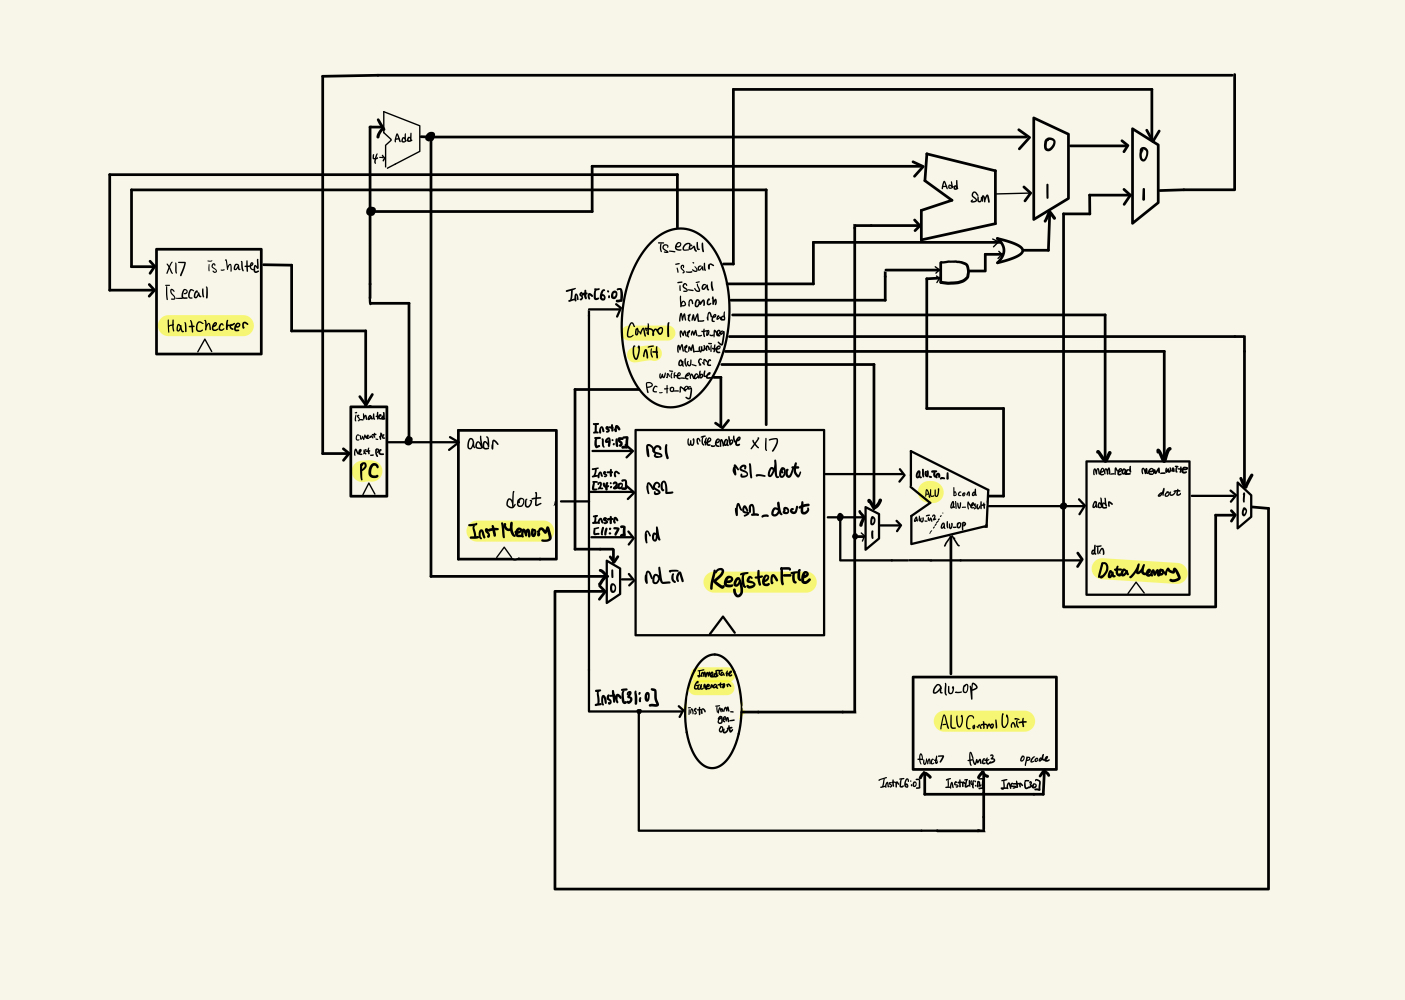
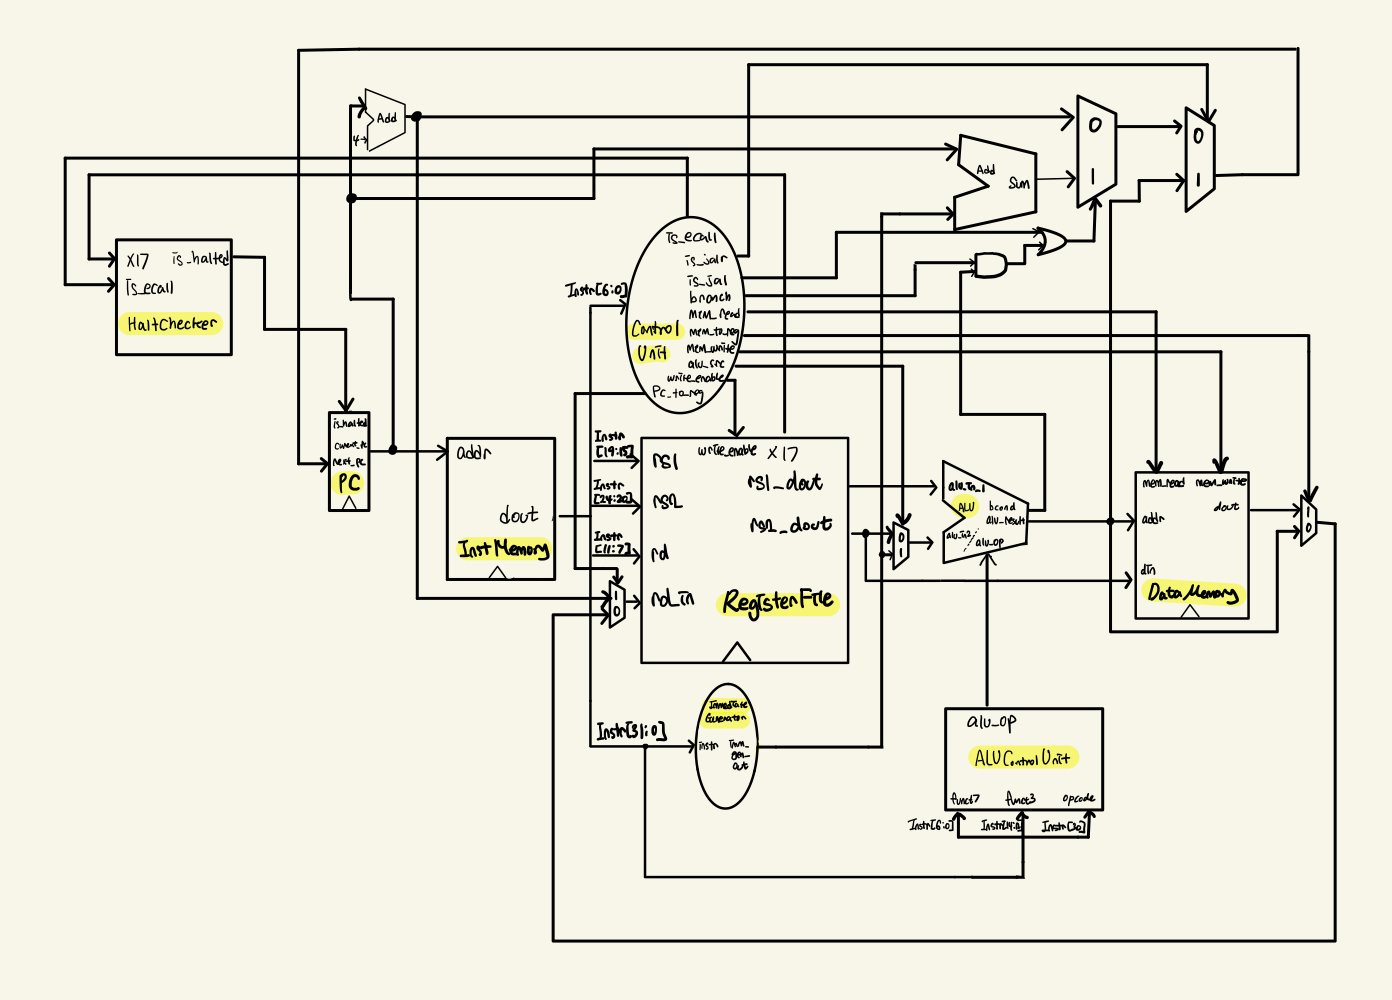
Modify README.md and Single Cycle CPU Design as HaltChecker changed from Sequential Circuit to Combinational Circuit

Changed region(s): [[0.0309, 0.031, 0.9576, 0.899], [0.4016, 0.93, 0.9576, 0.961]]

diff --git a/Lab02/README.md b/Lab02/README.md
@@ -112,10 +112,10 @@ PC:=PC+4(0)와 PC:=PC+immediate(1) 중 Output을 결정하는 MUX이다.
 mux\_pcsrc\_1의 output(0)과 ALU에서 계산된 register의 값과 immediate의 합(1) 중 Output을 결정하는 MUX이다.
 ```
 
-### HaltChecker: Sequential
+### HaltChecker: Combinational
 
 ``` text
-always @(posedge clk)
+always @(*)
 reset input이 1일 때 output인 is_halted를 0으로 초기화해주며, 
 control unit으로부터 입력되는 is_ecall control bit이 1이고 GPR[x17]==10이면, 
 is_halted에 1을 저장하며 프로그램을 종료한다.
@@ -124,7 +124,7 @@ is_halted에 1을 저장하며 프로그램을 종료한다.
 ### PC: Sequential
 
 ```text
-reset input이 1일 때, current_pc를 1로 초기화해주며,
+reset input이 1일 때, current_pc를 0로 초기화해주며,
 is_halted의 값이 1이라면 current_pc에 변화를 주지 않고
 0이라면 mux\_pcsrc\_2의 output을 current_pc에 저장한다.
 ```
